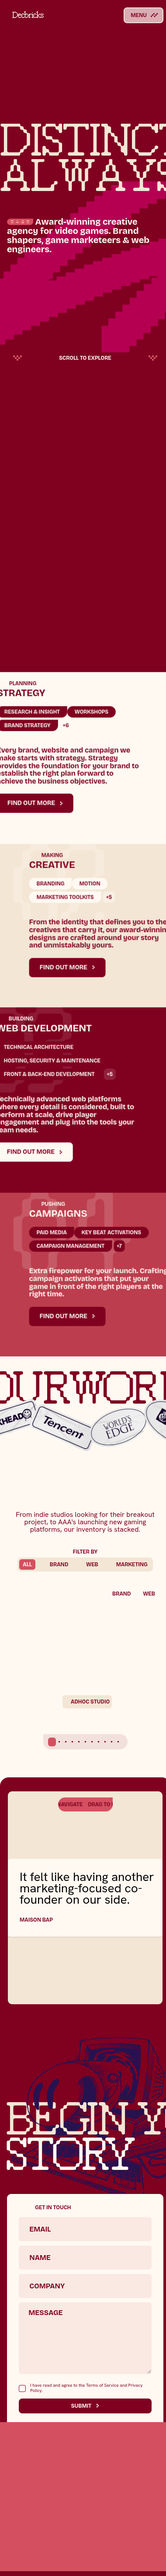
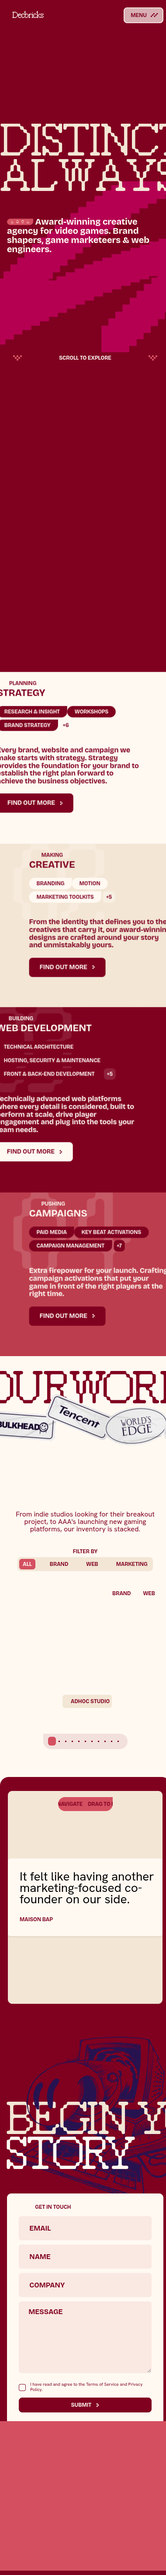
batch 2: a11y polish - aria labels contain visible text (BUG-007), 24px+ tap targets (BUG-008), remove unused SITE import (BUG-010); BUG-009 marked wont-fix (sr-only is truly invisible)

diff --git a/src/styles/decbricks.css b/src/styles/decbricks.css
@@ -456,3 +456,21 @@ li {
   -webkit-backdrop-filter: blur(16px);
   backdrop-filter: blur(16px);
 }
+
+/* Tap targets < 24px (BUG-008): "Scroll To Explore" (16px), "Rise to the
+   top" (17px), footer "Manage Cookies" (16px). Expand the clickable area
+   with an invisible pseudo-element; visuals and layout untouched. The
+   parents already establish positioning or are static-safe (position is
+   set here so the pseudo anchors to the button itself). */
+.parts-scrollButton,
+.parts-btnScrollTop,
+.parts-btnText {
+  position: relative;
+}
+.parts-scrollButton::after,
+.parts-btnScrollTop::after,
+.parts-btnText::after {
+  content: '';
+  position: absolute;
+  inset: -5px;
+}

diff --git a/docs/BUG_REPORT.md b/docs/BUG_REPORT.md
@@ -41,10 +41,10 @@ Severity: Critical / High / Medium / Low. Effort: S (<30 min) / M (<2 h) / L (la
 | BUG-004 | all pages | Nav / brand / a11y | **High** — **Fixed** (batch 1: `menu.ts` highlights Contact by href + plain-page route-match branch preserves SSR `router-link-active`/`aria-current`; verified on all 4 routes + hover; 42 after-screenshots clean) | The **Contact highlight pill loses its SSR classes at runtime**: `menu.ts:53` `isHighlight = dataAnchor === '#contact'`, but `Header.astro` changed Contact to a plain href (`anchor: ''`) → `bg-darkPurple`/`text-neonGreen` are toggled **off**, pill renders bare black `rgb(0,0,0)` text on every page (off-palette; the only non-brand colour found anywhere). Also inverts the emphasis design (highlight pill = empty pill, regular pills normal). | evaluate: Contact pill `color=rgb(0,0,0)` while other pills `rgb(128,0,32)`; `audit/home-1440.png` | `src/scripts/menu.ts:53,71–78`; `src/components/Header.astro:10` (Contact `anchor: ''`) | Change the highlight condition to the Contact route (`rawHref === '/contact'`) instead of `dataAnchor === '#contact'`; verify the stripped toggles then preserve the SSR state at rest | **S** |
 | BUG-005 | `/` (case-study filter) | A11y / contrast | Medium | "ALL" filter pill: off-white `#FFF9F2` text on coral `#D45060` at **3.92:1**, 12 px — below the 4.5:1 minimum (brand rule: coral only for large/bold text). Lighthouse a11y failure. | Lighthouse `color-contrast` item 1 | `src/components/CaseStudies.astro` (filter bar), class hook `parts-btnBlock` there | Needs decision (design): darken pill bg to burgundy `#800020` (10:1 ✅) or enlarge/bold the label ≥18.66 px | **S** |
 | BUG-006 | `/` (testimonials) | A11y / contrast | Medium | "DRAG TO NAVIGATE" marquee-cursor text: burgundy `#800020` on coral `#D45060` at **2.63:1**, 12 px — fails on both counts (same known C6 family). | Lighthouse `color-contrast` items 2–3; `audit/home-1440.png` testimonials section | `src/components/Testimonials.astro:1001,1004` (`.parts-marqueeCursor__text`) | Needs decision (design): swap text to Off-White on the coral card, or card bg to Beige with burgundy text | **S** |
-| BUG-007 | `/` | A11y | Medium | Lighthouse `label-content-name-mismatch` ×3: logo link (`aria-label="Go to homepage"` vs visible "Decbricks"), `SCROLL TO EXPLORE` button, case-study card (`aria-label="Case study: …"` vs visible text) — visible text must be contained in the accessible name. | Lighthouse `label-content-name-mismatch` items | `src/components/Header.astro` (logo), `src/components/Hero.astro` (scroll button), `src/components/CaseStudies.astro` (card) | Include the visible text in each aria-label (e.g. `aria-label="Decbricks — Go to homepage"`, `"Scroll to explore"`, `"Case study: Adhoc Studio — Adhoc Studio, Brand, Web"` or trim the visible-text vs label mismatch) | **S** |
-| BUG-008 | all | A11y / touch | Medium | 3 interactive targets < 24 px CSS height: "Scroll To Explore" (16 px), "Rise to the top" (17 px), "Manage Cookies" (16 px). | evaluate tap-target sweep | `src/components/Hero.astro`, scroll-top button (Footer/menu module), `src/components/CookieBanner.astro` | Pad hit areas to ≥24 px via padding/pseudo-element without changing visuals | **S** |
-| BUG-009 | `/contact` | A11y / a11y hygiene | Low | Honeypot `_gotcha` input renders visible at 1×1 px (`display:block`, opacity 1) — fine for sighted users, but it is technically focusable/visible; standard is visually-hidden (not `display:none`, which breaks bots). | evaluate: `rect w=1 h=1, visibility=visible, offsetParent=true` | `src/components/ContactForm.astro` (honeypot wrapper) | Move to `position:absolute; left:-9999px` (keeps it in layout for bots, fully invisible) | **S** |
-| BUG-010 | build | Hygiene | Low | `astro check` hint: unused `SITE` import in Header.astro. | `npm run check` output | `src/components/Header.astro:2` | Remove the import | **S** |
+| BUG-007 | `/` | A11y | Medium — **Fixed** (batch 2: labels now contain visible text — logo "Decbricks — Go to homepage", "Scroll To Explore", 11 cards "Case study: X — Category"; verified in DOM; build ✅, 0 hints) | Lighthouse `label-content-name-mismatch` ×3: logo link (`aria-label="Go to homepage"` vs visible "Decbricks"), `SCROLL TO EXPLORE` button, case-study card (`aria-label="Case study: …"` vs visible text) — visible text must be contained in the accessible name. | Lighthouse `label-content-name-mismatch` items | `src/components/Header.astro` (logo), `src/components/Hero.astro` (scroll button), `src/components/CaseStudies.astro` (card) | Include the visible text in each aria-label (e.g. `aria-label="Decbricks — Go to homepage"`, `"Scroll to explore"`, `"Case study: Adhoc Studio — Adhoc Studio, Brand, Web"` or trim the visible-text vs label mismatch) | **S** |
+| BUG-008 | all | A11y / touch | Medium — **Fixed** (batch 2: invisible `::after` hit-areas in `decbricks.css`; effective heights now 26/27/26px, visuals untouched) | 3 interactive targets < 24 px CSS height: "Scroll To Explore" (16 px), "Rise to the top" (17 px), "Manage Cookies" (16 px). | evaluate tap-target sweep | `src/components/Hero.astro`, scroll-top button (Footer/menu module), `src/components/CookieBanner.astro` | Pad hit areas to ≥24 px via padding/pseudo-element without changing visuals | **S** |
+| BUG-009 | `/contact` | A11y / a11y hygiene | Low — **Won't fix** (false positive: `sr-only` renders `position:absolute; clip-path:inset(50%); aria-hidden; tabindex=-1` — fully invisible to sighted users and AT; the Phase-1 probe read the CSS `visibility` property, not paint state) | Honeypot `_gotcha` input renders visible at 1×1 px (`display:block`, opacity 1) — fine for sighted users, but it is technically focusable/visible; standard is visually-hidden (not `display:none`, which breaks bots). | evaluate: `rect w=1 h=1, visibility=visible, offsetParent=true` | `src/components/ContactForm.astro` (honeypot wrapper) | Move to `position:absolute; left:-9999px` (keeps it in layout for bots, fully invisible) | **S** |
+| BUG-010 | build | Hygiene | Low — **Fixed** (batch 2: import removed; `astro check` now 0 errors/0 warnings/**0 hints**) | `astro check` hint: unused `SITE` import in Header.astro. | `npm run check` output | `src/components/Header.astro:2` | Remove the import | **S** |
 | BUG-011 | `/`, `/services`, `/the404game` | SEO | Low | No JSON-LD structured data on home/services/game (about + contact have `AboutPage`/`ContactPage` + `Organization` + `BreadcrumbList`). Home should carry `Organization` (+ `WebSite`); `Organization.logo` currently points at `fav1.png` (temp favicon, see BUG-014). | head grep of built pages | `src/pages/index.astro` (no `schema` prop passed to `Base.astro`) | Add Organization/WebSite JSON-LD to home via the existing `schema` prop | **S** |
 | BUG-012 | build | Hygiene | Low | Two build warnings: (a) vite chunk > 500 kB (three.js/GSAP vendor), (b) `[glob-loader] No files found in src/content/work` + deprecation (auto-generated collections). No functional impact. | build + dev logs | `astro.config.*` (chunkSizeWarningLimit / manualChunks), `src/content/work/` (empty) | (a) raise limit or split vendor chunk (zero-dep config change); (b) delete empty folder or define `content.config.ts` | **S** |
 | BUG-013 | all | A11y polish | Low | Contact-pill hover feedback is very subtle in the pill bar: `hover:bg-white` on the off-white pill container barely registers; hover label slide works (14/14 chars animate) but the bg change is nearly invisible. | hover probe: bg → `rgb(255,249,242)` | `src/components/Header.astro:43` (same class string) | Needs decision (design): hover could match the template's `focus:bg-white`-visible state or add a subtle border/colour shift on the pill bar — keep template language | **S** |
